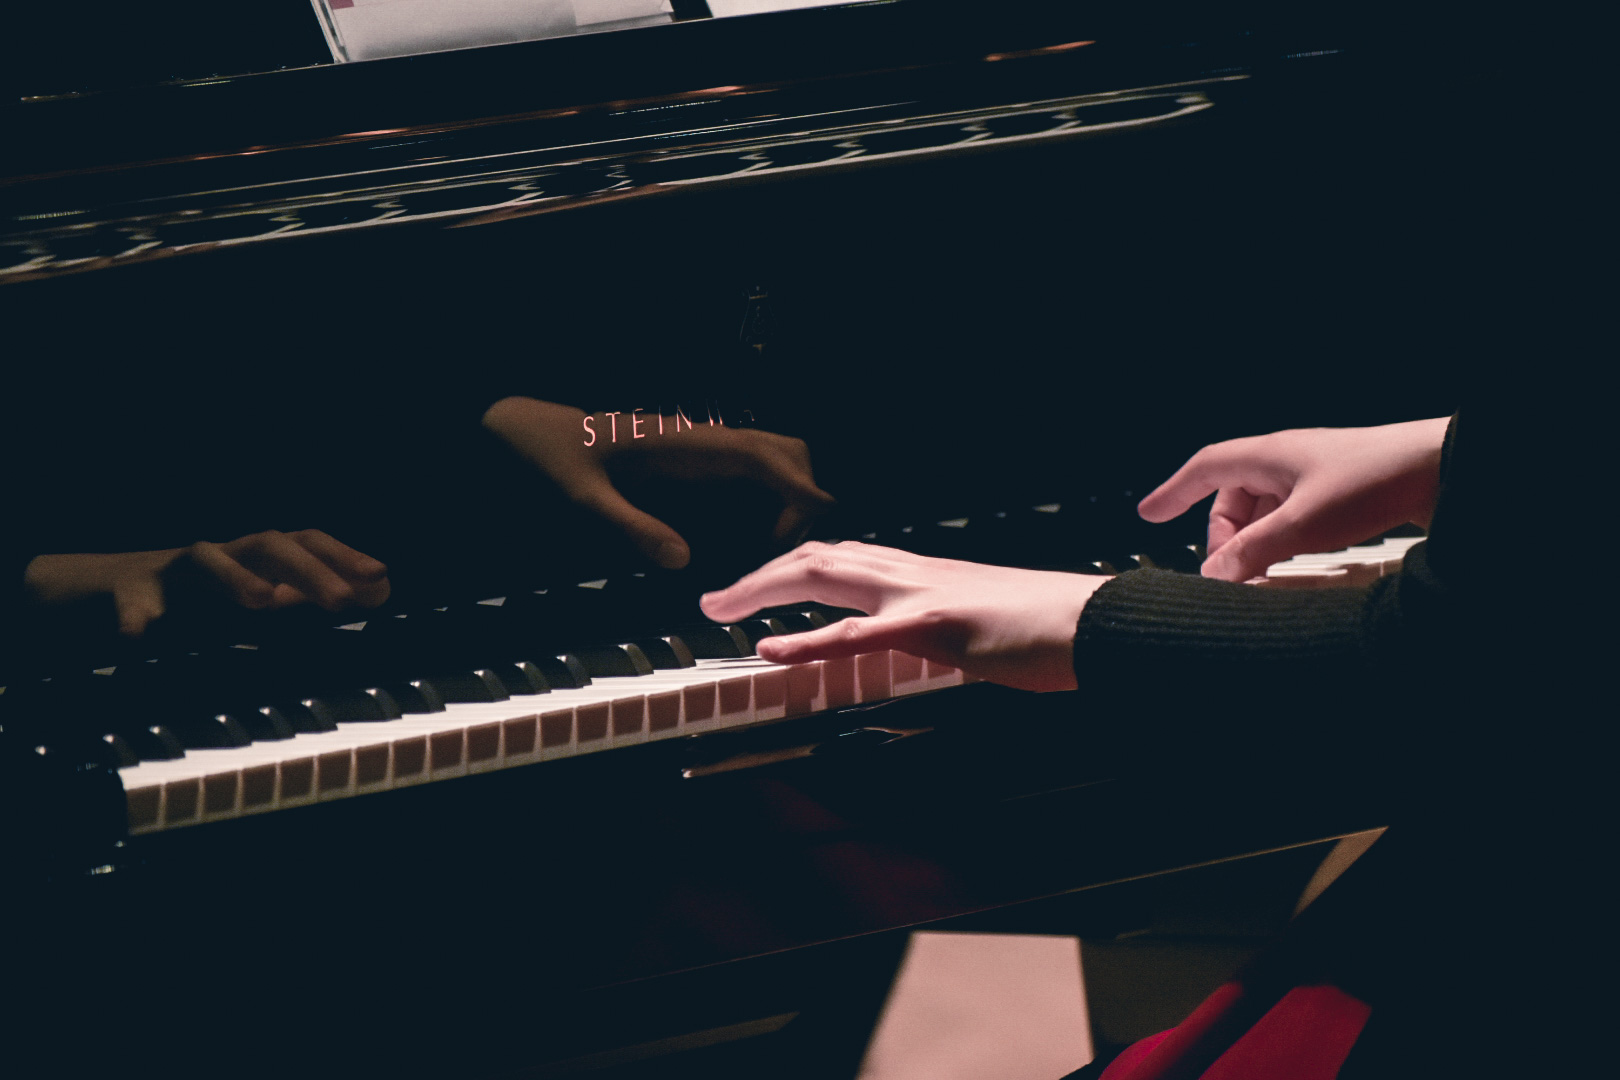
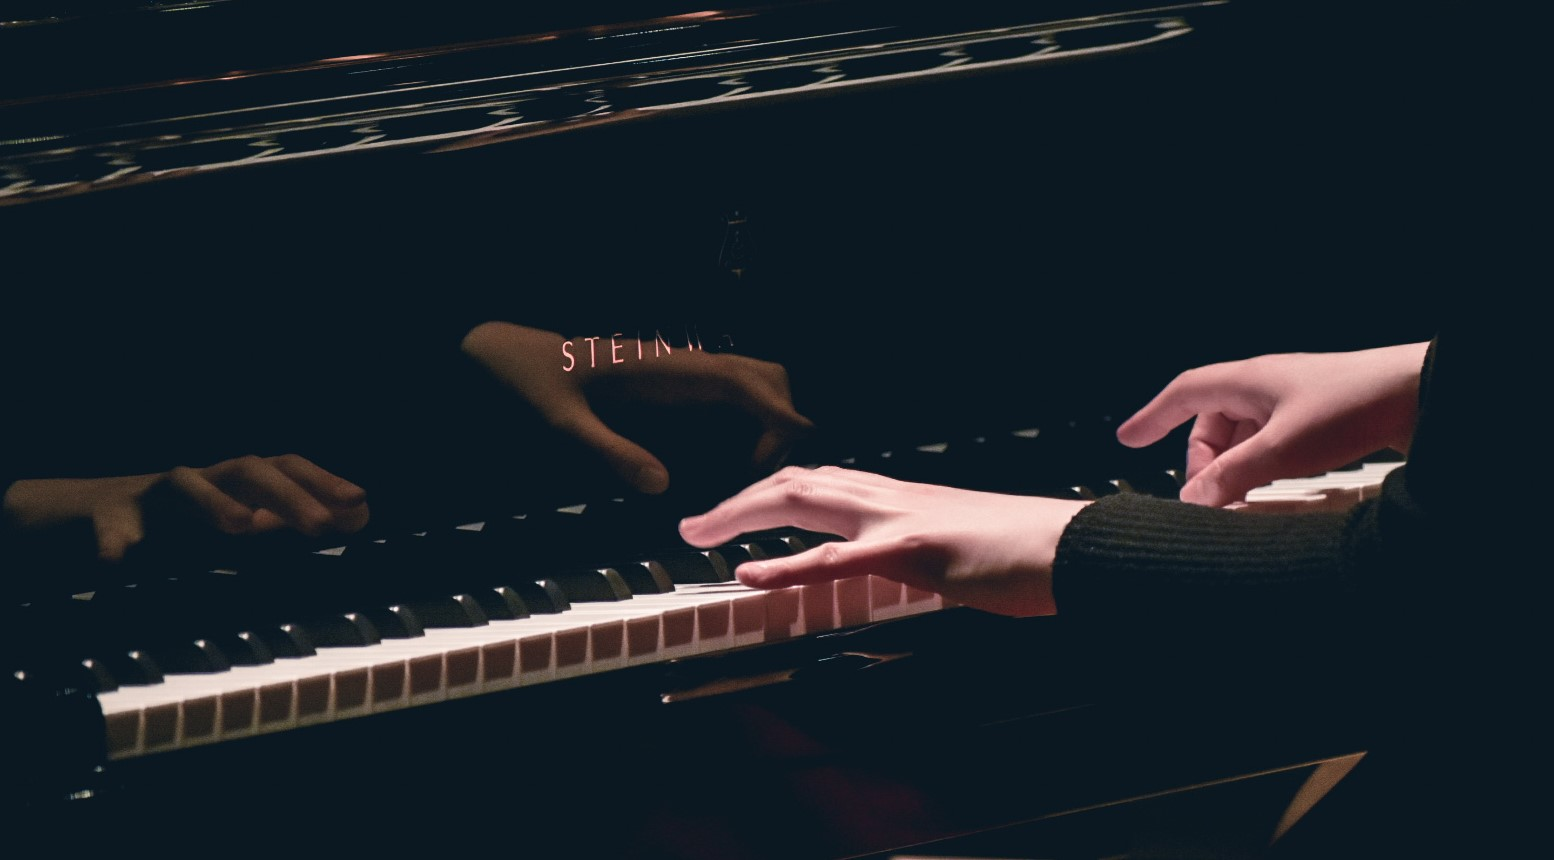
about

diff --git a/index.html b/index.html
@@ -53,7 +53,7 @@
     <div id="header"></div>
     <!-- 画面真ん中の情報 -->
     <main class="main">
-      <img src="image/2020Top2.jpg" class="topImage">
+      <img src="image/2018Top.jpg" class="topImage">
 
 
       <div class="info">
